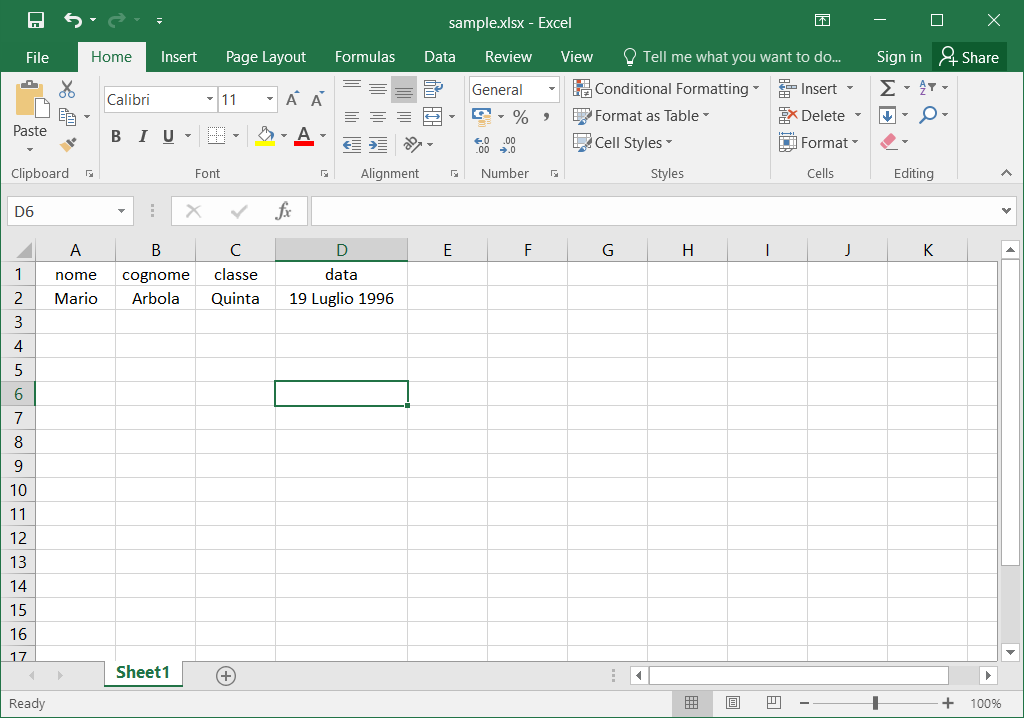
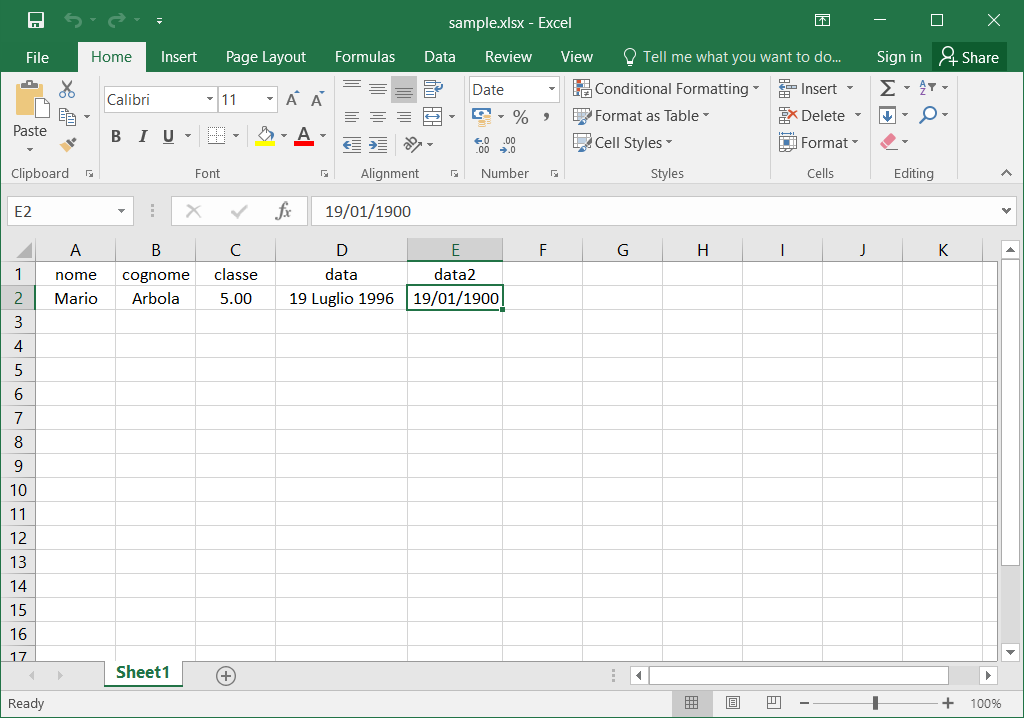
Add Date Management

diff --git a/src/main/java/com/marbola/excel/impl/ExcelReaderImpl.java b/src/main/java/com/marbola/excel/impl/ExcelReaderImpl.java
@@ -3,8 +3,13 @@ package com.marbola.excel.impl;
 
 import java.io.File;
 import java.lang.reflect.Field;
+import java.text.ParseException;
+import java.text.SimpleDateFormat;
 import java.util.ArrayList;
+import java.util.Date;
 import java.util.List;
+import java.util.Locale;
+import java.util.function.Predicate;
 
 import org.apache.poi.hssf.usermodel.HSSFDateUtil;
 import org.apache.poi.ss.usermodel.Cell;
@@ -17,8 +22,7 @@ import com.marbola.excel.ExcelEntity;
 import com.marbola.excel.ExcelField;
 import com.marbola.excel.exception.EntityNotValidException;
 
-
-public class ExcelReaderImpl<T>  {
+public class ExcelReaderImpl<T> implements ExcelReader<T>  {
 
 	private Class<T> clazz; 
 	private Field[] fields;
@@ -26,12 +30,24 @@ public class ExcelReaderImpl<T>  {
 	private String excelFile;
 	private int indexHeader;
 	private String sheetName;
+	private Predicate<Row> predicate;
+	private Locale locale;
+	
+	public ExcelReaderImpl(Class<T> clazz, String excelFile) throws Exception {
+		this(clazz, excelFile, 0, "Sheet1");
+	}
 	
 	public ExcelReaderImpl(Class<T> clazz, String excelFile,int indexHeader,String sheetName) throws Exception {
+		this(clazz, excelFile, 0, "Sheet1", row -> true , Locale.ITALIAN);
+	}	
+	
+	public ExcelReaderImpl(Class<T> clazz, String excelFile,int indexHeader,String sheetName, Predicate<Row> predicate,Locale locale) throws Exception {
 		this.excelFile = excelFile;
 		this.clazz = clazz;
 		this.indexHeader = indexHeader;
 		this.sheetName = sheetName;
+		this.predicate = predicate;
+		this.locale = locale;
 		
 		if(!clazz.isAnnotationPresent(ExcelEntity.class)) {
 			throw new EntityNotValidException("Check ["+clazz.getName()+"] class.");
@@ -54,10 +70,10 @@ public class ExcelReaderImpl<T>  {
 		
 	}
 	
-	public ExcelReaderImpl(Class<T> clazz, String excelFile) throws Exception {
-		this(clazz, excelFile, 0, "Sheet1");
-	}
-	
+	/* (non-Javadoc)
+	 * @see com.marbola.excel.impl.ExcelReader#readRows()
+	 */
+	@Override
 	public List<T> readRows() throws Exception {
 		ArrayList<T> list = new ArrayList<T>();
 		
@@ -70,7 +86,7 @@ public class ExcelReaderImpl<T>  {
 	    Row row = null ;
 	    int currentRow = ++indexHeader;
 	    
-	    while ( !checkIfRowIsEmpty(( row = sheet.getRow(currentRow++))) ) {
+	    while ( !checkIfRowIsEmpty(( row = sheet.getRow(currentRow++))) && predicate.test(row) ) {
 	    	list.add(this.readRow(row,header));
 		}
 	    
@@ -79,12 +95,20 @@ public class ExcelReaderImpl<T>  {
 		return list;
 	}
 	
+	/* (non-Javadoc)
+	 * @see com.marbola.excel.impl.ExcelReader#readRow(int, org.apache.poi.ss.usermodel.Row)
+	 */
+	@Override
 	public T readRow(int rowIndex,Row header) throws Exception {
 		Workbook wb = WorkbookFactory.create(new File(excelFile));
 	    Sheet sheet = wb.getSheet(sheetName);
 		return this.readRow(sheet.getRow(rowIndex),header);
 	}
 	
+	/* (non-Javadoc)
+	 * @see com.marbola.excel.impl.ExcelReader#readRow(int, int)
+	 */
+	@Override
 	public T readRow(int rowIndex,int headerIndex) throws Exception {
 		Workbook wb = WorkbookFactory.create(new File(excelFile));
 	    Sheet sheet = wb.getSheet(sheetName);
@@ -92,6 +116,10 @@ public class ExcelReaderImpl<T>  {
 		return this.readRow(rowIndex,header);
 	}
 	
+	/* (non-Javadoc)
+	 * @see com.marbola.excel.impl.ExcelReader#readRow(org.apache.poi.ss.usermodel.Row, org.apache.poi.ss.usermodel.Row)
+	 */
+	@Override
 	public T readRow(Row row,Row header) throws Exception {
 		T rowInstance = clazz.newInstance();
 	    
@@ -106,8 +134,8 @@ public class ExcelReaderImpl<T>  {
 					boolean accessible = field.isAccessible();
 					
 					field.setAccessible(true);
-					
-					field.set(rowInstance,  getCellGenericValue(currentCell,field.getType()));
+					ExcelField annotation = field.getAnnotation(ExcelField.class);
+					field.set(rowInstance,  getCellGenericValue(currentCell,field.getType(),annotation.value()));
 					
 					field.setAccessible(accessible);
 					
@@ -120,14 +148,17 @@ public class ExcelReaderImpl<T>  {
 	}
 	
 	@SuppressWarnings({ "hiding", "unchecked" })
-	private <T> T getCellGenericValue(Cell cell, Class<T> clazz) {
-		
+	private <T> T getCellGenericValue(Cell cell, Class<T> clazz,String pattern) throws ParseException {
 		T result = null; 
 		int cellType = cell.getCellType();
 
 		switch (cellType) {
 			case Cell.CELL_TYPE_STRING:{
+				if (clazz == Date.class) {
+					result = (T) new SimpleDateFormat(pattern,locale).parse(cell.getStringCellValue());
+			    }else {
 			    	result = (T) cell.getStringCellValue();
+			    }
 				break;
 			}
 			case Cell.CELL_TYPE_BOOLEAN:{
@@ -143,11 +174,13 @@ public class ExcelReaderImpl<T>  {
 				break;
 			}
 			case Cell.CELL_TYPE_NUMERIC:{
-				if (HSSFDateUtil.isCellDateFormatted(cell)) {
-					System.out.println("HSSFDateUtil.isCellDateFormatted");
-//					return (T) cell.getDateCellValue();
+				
+				if(HSSFDateUtil.isCellDateFormatted(cell)) {
+					result = (T) cell.getDateCellValue();
+				}else {
+					result = (T) new Double(cell.getNumericCellValue());
 				}
-				result = (T) new Double(cell.getNumericCellValue());
+				
 				break;
 			}
 			default:{

diff --git a/src/main/java/com/marbola/excel/impl/ExcelReader.java b/src/main/java/com/marbola/excel/impl/ExcelReader.java
@@ -1,0 +1,17 @@
+package com.marbola.excel.impl;
+
+import java.util.List;
+
+import org.apache.poi.ss.usermodel.Row;
+
+public interface ExcelReader<T> {
+
+	List<T> readRows() throws Exception;
+
+	T readRow(int rowIndex, Row header) throws Exception;
+
+	T readRow(int rowIndex, int headerIndex) throws Exception;
+
+	T readRow(Row row, Row header) throws Exception;
+
+}

diff --git a/src/main/java/com/marbola/excel/ExcelField.java b/src/main/java/com/marbola/excel/ExcelField.java
@@ -9,4 +9,5 @@ import java.lang.annotation.Target;
 @Target(ElementType.FIELD)
 public @interface ExcelField {
 	String value() default "N/A";
+	String locale() default "en";
 }

diff --git a/README.md b/README.md
@@ -19,33 +19,55 @@ Add these snippets in your `pom.xml`
 ...
 ```
 
-### Example entity to map excel file
+
+
+------
+
+### Example - Excel File 
+
+![Example Excel File](.//images//excel.png)
+
+### Example - ModelEntity
 
 ```java
 @ExcelEntity
 public class ExcelRow {
-
+	
+	private static final String PATTERN = "dd MMMM yyyy";
+	private static final String LOCALE = "it";
+	
 	@ExcelField private String nome ;
 	@ExcelField private String cognome ;
-	@ExcelField private String classe ;
-	@ExcelField private String data ;
+	@ExcelField private Double classe ;
 	
-    // NOT NEED
-	@Override
-	public String toString() {
-        return "ExcelRow [nome=" + nome + ", cognome=" + cognome + ", classe=" + classe + ", data=" + data + "]";
-	}
-	
+	// CUSTOM PATTERN AND LOCALE 
+	@ExcelField(value=PATTERN,locale=LOCALE) 
+	private Date data ;
+    
+	// DEFAULT DATE 
+	@ExcelField 
+	private Date data2 ;
+
 }
 ```
 
-### Example Excel File 
+### Example - BasicUsage		
 
-![Example Excel File](.//images//excel.png)
-
+```java
+public static void main(String[] args) throws Exception {
+	
+    String path = "C:\Users\Cosmo\Desktop\sample.xlsx" ;
+	
+	ExcelReader<ExcelRow> excelReader = new ExcelReaderImpl<ExcelRow>(ExcelRow.class,path);
+	
+	for (ExcelRow excelRow : excelReader.readRows()) {
+		System.out.println(excelRow);
+	}
+}
+```
 ### Result 
 
 ```log
-ExcelRow [nome=Mario, cognome=Arbola, classe=Quinta, data=19 Luglio 1996]
+ExcelRow [nome=Mario, cognome=Arbola, classe=Quinta, data=19 Luglio 1996] 
 ```
 
